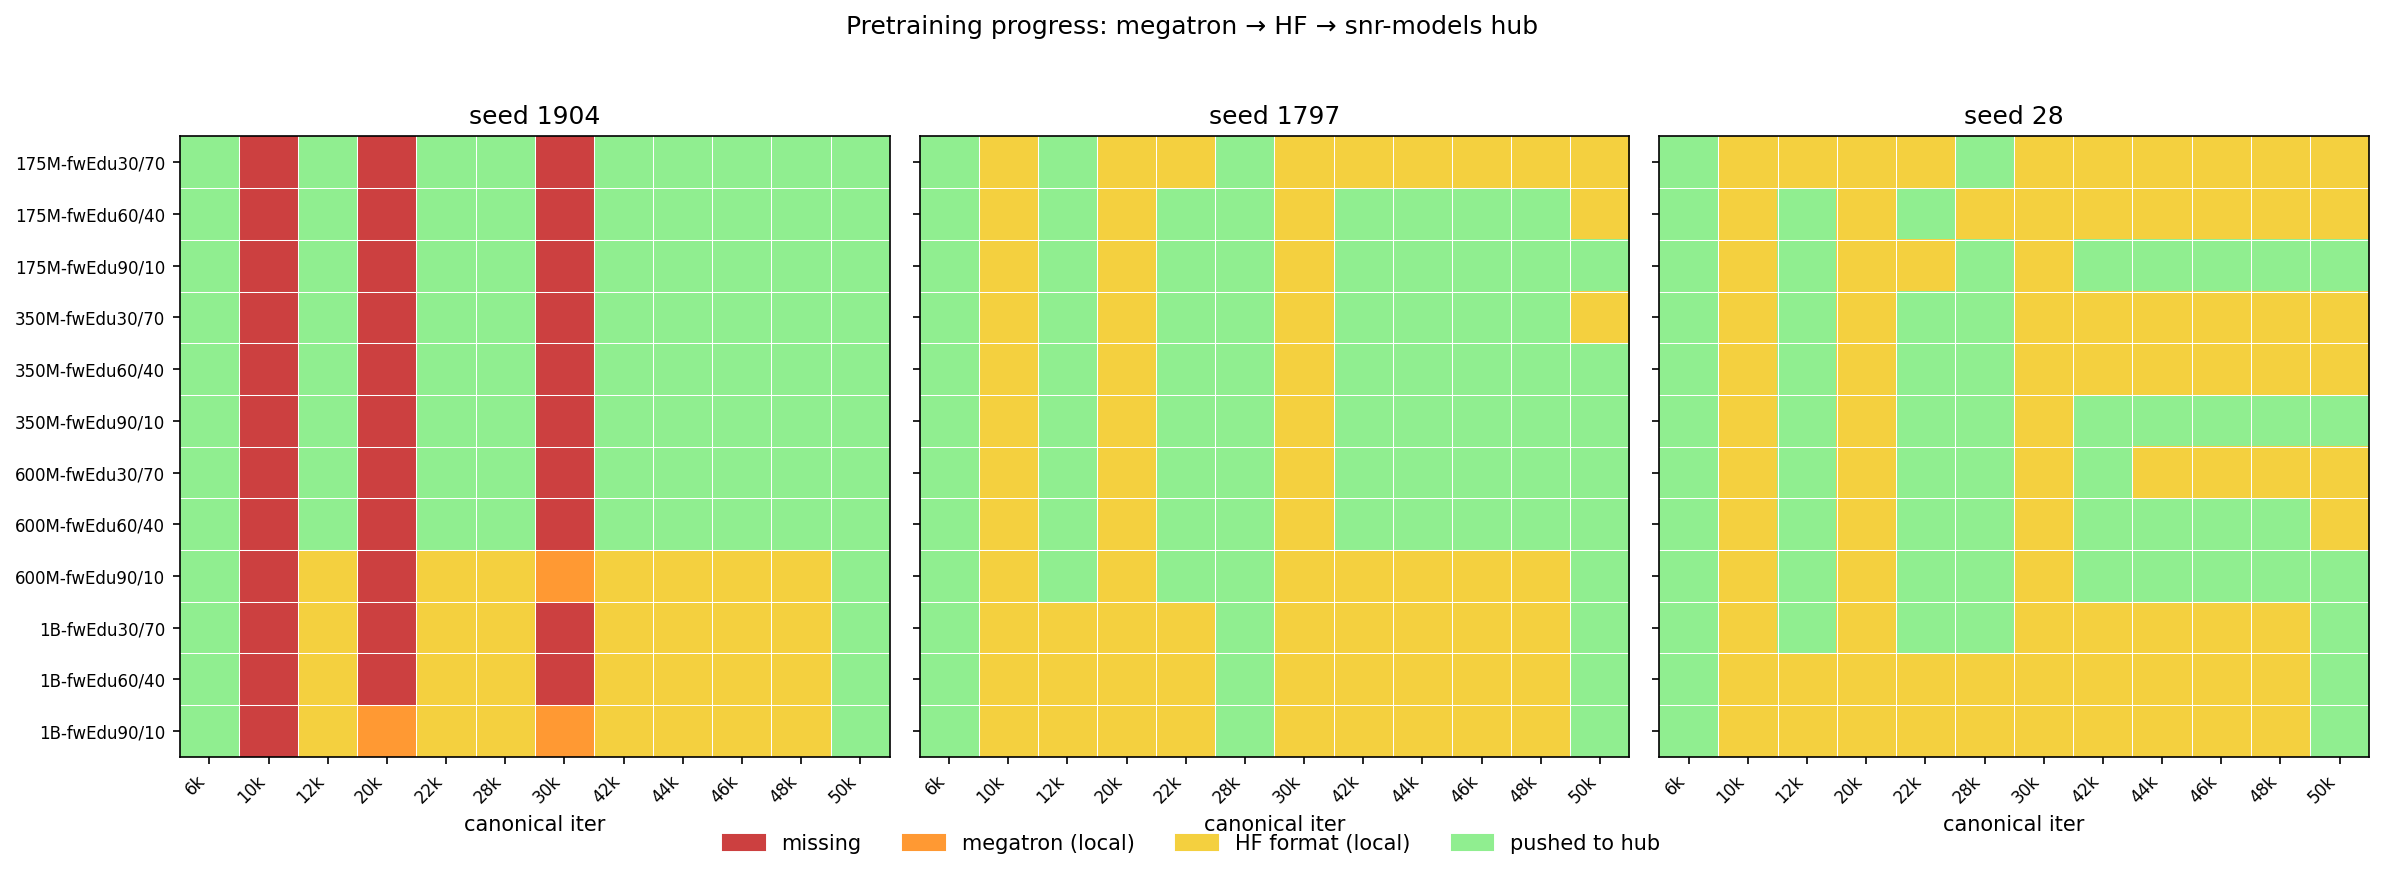
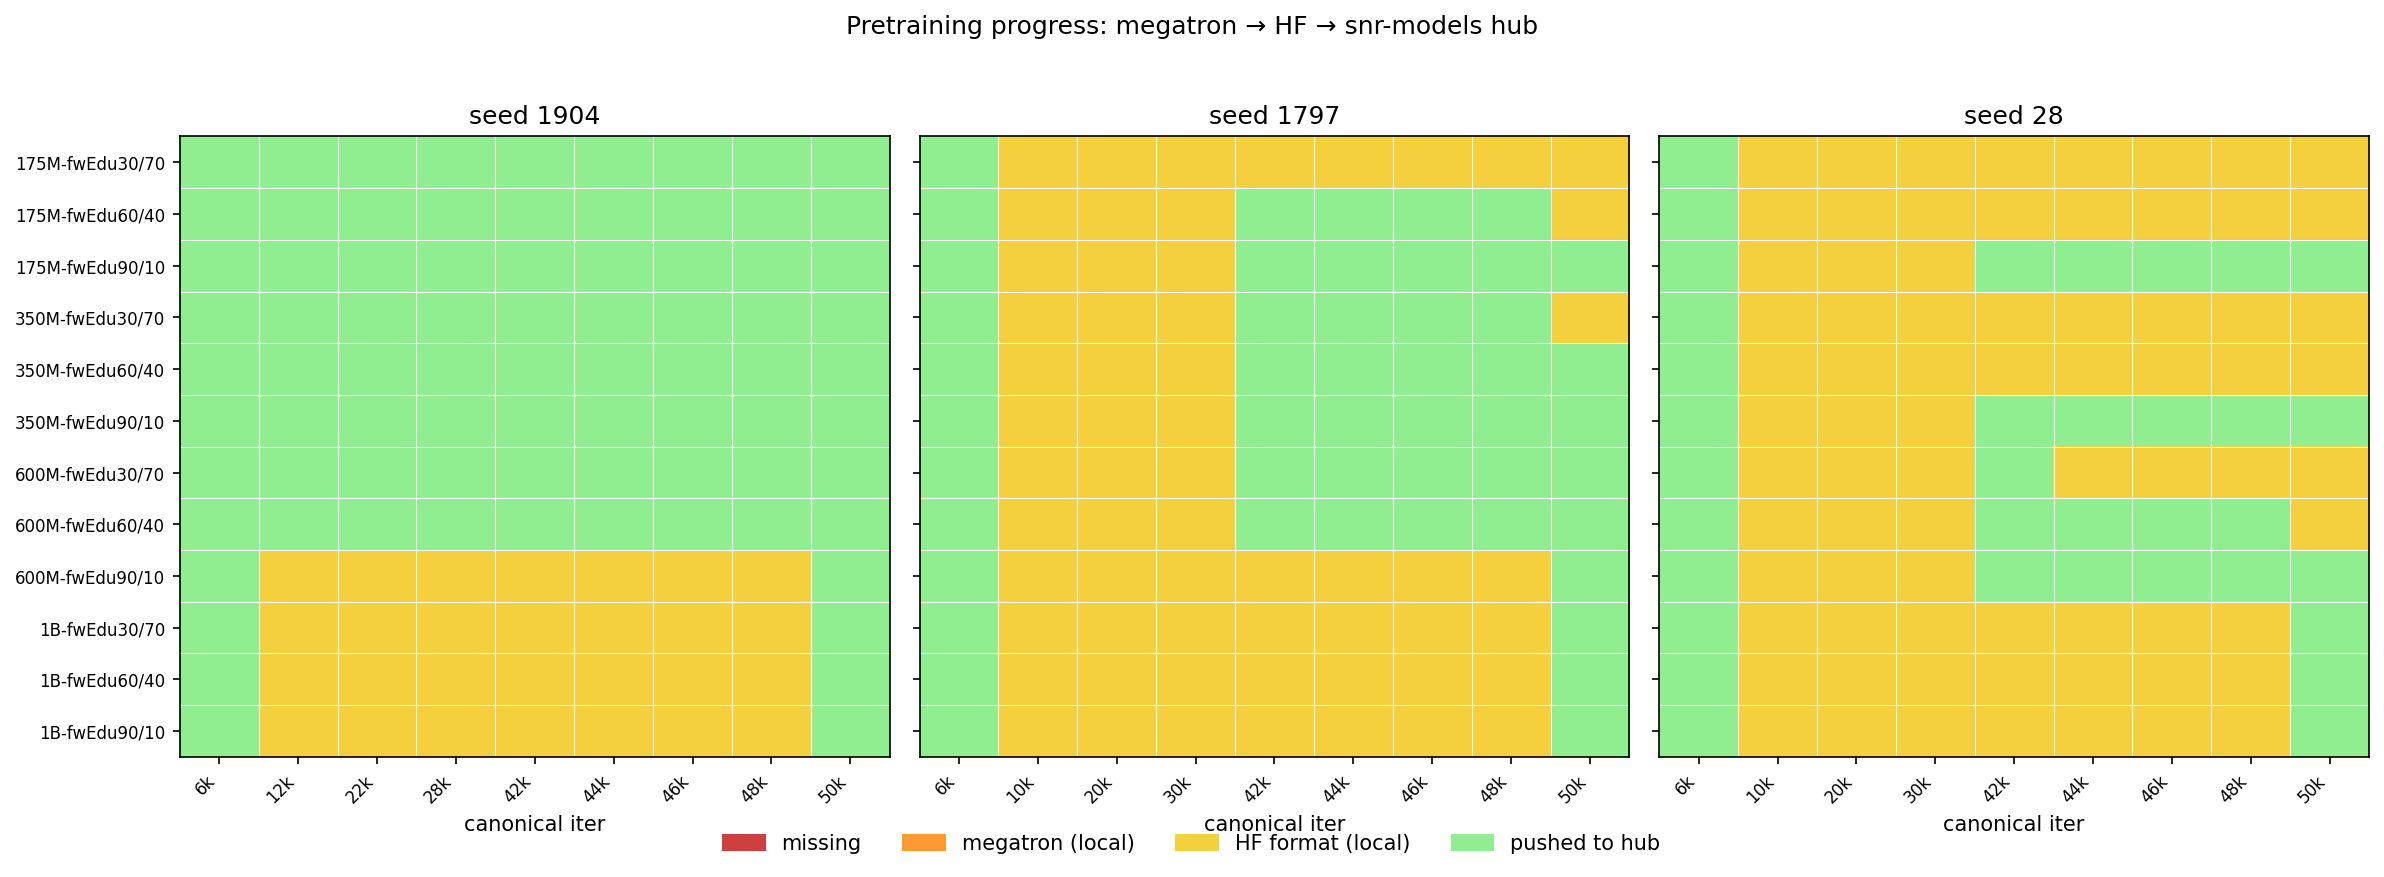
target every 2000-step iter in pretrain progress actions; fix per-seed plot axes
- drop the progress-bar dashboard from pretrain_progress.py — actions is
  now the only output mode, one tab-separated line per cell. removes the
  --actions and --all flags
- the action set targets every 2000-step iter, so 'done' means every
  iter_2000..iter_50000 is valid on disk (not just the 9 canonical ones).
  the prior canonical-only logic missed gaps like seed28 175M-fwEdu90
  missing iter 24000 with every other iter valid
- per-seed canonical iter axes in both plots: each panel now uses its own
  seed's iters (seed1904 → 12k/22k/28k, seeds 28/1797 → 10k/20k/30k)
  instead of the union, both in the canonical-stage heatmap columns and
  the all-iters plot's bold-canonical labels
- drop --actions from launch_resumes.sh's pretrain_progress invocation

diff --git a/src/pretrain/pretrain_progress.py b/src/pretrain/pretrain_progress.py
@@ -1,19 +1,23 @@
 #!/usr/bin/env python3
-"""Pretraining progress dashboard.
+"""Pretraining progress: per-cell machine-readable actions + plots.
 
-Scans the Megatron checkpoints tree and prints, for each model, the latest
-iteration saved, the number of iter_* dirs on disk, and a progress bar
-toward --target (default 50000). The companion to scripts/snr_progress.py
-(which tracks evaluation progress).
+Default: prints one tab-separated action line per canonical cell, targeting
+every 2000-step iter (so "done" means every `iter_NNNNNNN` from 2000..50000
+is valid on disk). Output format:
+
+    <model>\tdone
+    <model>\tfresh\t<target>
+    <model>\tcorrupt\t<n_iters>
+    <model>\tresume\t<load_iter>\t<target>
+
+Consumed by `launch_resumes.sh`.
 
 Examples:
     python3.11 pretrain_progress.py
-    python3.11 pretrain_progress.py --filter seed1904
-    python3.11 pretrain_progress.py --all                # include non-canonical exp dirs
+    python3.11 pretrain_progress.py --filter seed1797
     python3.11 pretrain_progress.py --target 50000
     python3.11 pretrain_progress.py --plot progress.png   # writes progress.png + progress_all.png
     python3.11 pretrain_progress.py --plot progress.png --no-hub  # skip Hub query
-    python3.11 pretrain_progress.py --actions             # machine-readable per-model action
 """
 from __future__ import annotations
 
@@ -31,7 +35,6 @@ HF_STAGING_ROOT = Path("/iopsstor/scratch/cscs/mariagrandury/snr-hf-checkpoints"
 # three accounts: snr-models-1904, snr-models-1797, snr-models-28).
 def hf_org_for_seed(seed: int) -> str:
     return f"snr-models-{seed}"
-CANONICAL_RE = re.compile(r"^apertus-(175M|350M|600M|1B)-fwEdu\d+-fw2\d+-seed\d+$")
 ITER_RE = re.compile(r"^iter_(\d+)$")
 
 # Per-seed iter policy (single source of truth for the whole pipeline:
@@ -43,8 +46,6 @@ ITERS_OTHER    = [6000, 10000, 20000, 30000, 42000, 44000, 46000, 48000, 50000]
 def canonical_iters_for_seed(seed: int) -> list[int]:
     return ITERS_SEED1904 if seed == 1904 else ITERS_OTHER
 
-# Union of all per-seed iters — used by the canonical-stage heatmap (columns).
-CANONICAL_ITERS = sorted(set(ITERS_SEED1904) | set(ITERS_OTHER))
 # All training save points: Megatron writes every 2000 iters (CHECKPOINT_STEPS).
 CHECKPOINT_INTERVAL = 2000
 TARGET_ITER = 50000
@@ -52,12 +53,6 @@ ALL_ITERS = list(range(CHECKPOINT_INTERVAL, TARGET_ITER + 1, CHECKPOINT_INTERVAL
 SIZES = ["175M", "350M", "600M", "1B"]
 MIXES = [(30, 70), (60, 40), (90, 10)]
 SEEDS = [1904, 1797, 28]
-
-
-def _seed_of(cell_name: str) -> int:
-    """Extract the seed int from a canonical cell name."""
-    m = re.search(r"-seed(\d+)$", cell_name)
-    return int(m.group(1)) if m else 0
 
 
 def is_valid_iter_dir(iter_dir: Path) -> bool:
@@ -110,13 +105,6 @@ def model_progress(
     max_iter = max(iters) if iters else None
     max_valid = max(valid_iters) if valid_iters else None
     return marker, len(iters), max_iter, max_valid, valid_iters
-
-
-def render_bar(done: int, total: int, width: int = 25) -> str:
-    if total <= 0:
-        return "[" + " " * width + "]"
-    filled = max(0, min(width, int(round(width * done / total))))
-    return "[" + "#" * filled + "-" * (width - filled) + "]"
 
 
 # ---------------------------------------------------------------------------
@@ -176,14 +164,15 @@ def _hub_branches_for_cell(api, cell: str, seed: int,
 
 
 def _build_status_matrix(seed: int, hub_branches: dict[str, set[str]],
+                        iters: list[int],
                         ckpt_root: Path = CKPT_ROOT) -> "list[list[int]]":
-    """Return a 12 × len(CANONICAL_ITERS) matrix of status codes for one seed."""
+    """Return a 12 × len(iters) matrix of status codes for one seed."""
     matrix: list[list[int]] = []
     for size in SIZES:
         for fw_edu, fw2 in MIXES:
             cell = f"apertus-{size}-fwEdu{fw_edu}-fw2{fw2}-seed{seed}"
             row: list[int] = []
-            for step in CANONICAL_ITERS:
+            for step in iters:
                 meg_ok = is_valid_iter_dir(
                     ckpt_root / cell / "checkpoints" / f"iter_{step:07d}"
                 )
@@ -247,7 +236,6 @@ def make_plot(out_path: Path, query_hub: bool = True,
     norm = BoundaryNorm([-0.5, 0.5, 1.5, 2.5, 3.5], cmap.N)
 
     row_labels = [f"{s}-fwEdu{e}/{w}" for s in SIZES for e, w in MIXES]
-    col_labels = [f"{i // 1000}k" for i in CANONICAL_ITERS]
 
     fig, axes = plt.subplots(
         1, len(SEEDS),
@@ -258,16 +246,18 @@ def make_plot(out_path: Path, query_hub: bool = True,
         axes = [axes]
 
     for ax, seed in zip(axes, SEEDS):
-        matrix = _build_status_matrix(seed, hub_branches, ckpt_root)
+        seed_iters = canonical_iters_for_seed(seed)
+        col_labels = [f"{i // 1000}k" for i in seed_iters]
+        matrix = _build_status_matrix(seed, hub_branches, seed_iters, ckpt_root)
         ax.imshow(matrix, cmap=cmap, norm=norm, aspect="auto")
-        ax.set_xticks(range(len(CANONICAL_ITERS)))
+        ax.set_xticks(range(len(seed_iters)))
         ax.set_xticklabels(col_labels, rotation=45, ha="right", fontsize=8)
         ax.set_yticks(range(len(row_labels)))
         ax.set_yticklabels(row_labels, fontsize=8)
         ax.set_title(f"seed {seed}")
         ax.set_xlabel("canonical iter")
         # Light grid between cells.
-        ax.set_xticks([x - 0.5 for x in range(1, len(CANONICAL_ITERS))], minor=True)
+        ax.set_xticks([x - 0.5 for x in range(1, len(seed_iters))], minor=True)
         ax.set_yticks([y - 0.5 for y in range(1, len(row_labels))], minor=True)
         ax.grid(which="minor", color="white", linewidth=0.5)
         ax.tick_params(which="minor", length=0)
@@ -300,7 +290,6 @@ def _make_all_iters_plot(out_path: Path, ckpt_root: Path = CKPT_ROOT) -> None:
     norm = BoundaryNorm([-0.5, 0.5, 1.5], cmap.N)
 
     row_labels = [f"{s}-fwEdu{e}/{w}" for s in SIZES for e, w in MIXES]
-    canonical_set = set(CANONICAL_ITERS)
     col_labels = [f"{i // 1000}k" for i in ALL_ITERS]
 
     fig, axes = plt.subplots(
@@ -312,11 +301,12 @@ def _make_all_iters_plot(out_path: Path, ckpt_root: Path = CKPT_ROOT) -> None:
         axes = [axes]
 
     for ax, seed in zip(axes, SEEDS):
+        canonical_set = set(canonical_iters_for_seed(seed))
         matrix = _build_all_iters_matrix(seed, ckpt_root)
         ax.imshow(matrix, cmap=cmap, norm=norm, aspect="auto")
         ax.set_xticks(range(len(ALL_ITERS)))
         ax.set_xticklabels(col_labels, rotation=90, fontsize=6)
-        # Bold + slightly larger font for canonical iter labels so they pop.
+        # Bold + slightly larger font for this seed's canonical iter labels.
         for lbl, it in zip(ax.get_xticklabels(), ALL_ITERS):
             if it in canonical_set:
                 lbl.set_fontweight("bold")
@@ -344,7 +334,7 @@ def _make_all_iters_plot(out_path: Path, ckpt_root: Path = CKPT_ROOT) -> None:
 
 
 # ---------------------------------------------------------------------------
-# Machine-readable per-model action mode (consumed by launch_resumes.sh).
+# Machine-readable per-model action output (consumed by launch_resumes.sh).
 #
 # Output (one line per model, tab-separated):
 #   <model>\tdone
@@ -352,17 +342,21 @@ def _make_all_iters_plot(out_path: Path, ckpt_root: Path = CKPT_ROOT) -> None:
 #   <model>\tcorrupt\t<n_iters>               # iter dirs exist but none valid → skip + warn
 #   <model>\tresume\t<load_iter>\t<target>    # resume from <load_iter>, train until <target>
 #
+# Target set: EVERY 2000-step iter ≤ --target (the full set Megatron writes
+# during training). "done" therefore means every iter_NNNNNNN from
+# CHECKPOINT_INTERVAL..target is a valid checkpoint on disk.
+#
 # We never emit a "wipe" action — the launcher must not auto-delete checkpoint
 # directories. A corrupt model is reported and left alone for manual review.
 #
 # Decision logic per model:
-#   • All canonical iters ≤ target valid    → done
+#   • All target iters valid                → done
 #   • No iter dirs on disk                  → fresh
 #   • Iter dirs exist but no valid ones     → corrupt (skip)
-#   • Any canonical iter > max_existing_canonical missing (end-gap)
+#   • Any target iter > max_existing missing (end-gap)
 #       → resume from max_valid until <target>
-#   • Otherwise (mid-gap only): earliest missing canonical
-#       → resume from max valid iter strictly less than that canonical, until canonical
+#   • Otherwise (mid-gap only): earliest missing target iter
+#       → resume from max valid iter strictly less than that, until that iter
 #     If a model has both end- and mid-gaps, end wins (per spec).
 #     Re-running picks up the next mid-gap after the previous job finishes.
 # ---------------------------------------------------------------------------
@@ -383,28 +377,25 @@ def emit_actions(target: int, root: Path = CKPT_ROOT,
                  filter_substr: str | None = None) -> None:
     """Print per-model action lines for the resume launcher (see above).
 
-    The canonical iter set is picked per-cell from `canonical_iters_for_seed`:
-    seed1904 uses ITERS_SEED1904; seed28 / seed1797 use ITERS_OTHER. This
-    matches the rest of the pipeline (eval CSV, conversion plan files).
+    Targets every 2000-step iter ≤ target (ALL_ITERS), so "done" means every
+    iter_NNNNNNN in that range is a valid checkpoint on disk.
     """
+    target_iters = [i for i in ALL_ITERS if i <= target]
     for d in _canonical_models(root):
         if filter_substr and filter_substr not in d.name:
             continue
         marker, n_iters, max_iter, max_valid, valid_iters = model_progress(d)
 
-        canonical_target_iters = [
-            c for c in canonical_iters_for_seed(_seed_of(d.name)) if c <= target
-        ]
-        existing_canonical = [c for c in canonical_target_iters if c in valid_iters]
-        missing_canonical = [c for c in canonical_target_iters if c not in valid_iters]
+        existing = [c for c in target_iters if c in valid_iters]
+        missing = [c for c in target_iters if c not in valid_iters]
 
-        if not missing_canonical:
+        if not missing:
             print(f"{d.name}\tdone")
             continue
 
-        max_existing = max(existing_canonical) if existing_canonical else 0
-        end_missing = [c for c in missing_canonical if c > max_existing]
-        mid_missing = [c for c in missing_canonical if c < max_existing]
+        max_existing = max(existing) if existing else 0
+        end_missing = [c for c in missing if c > max_existing]
+        mid_missing = [c for c in missing if c < max_existing]
 
         if end_missing:
             # Drive to the final target. Spec: end wins over mid.
@@ -417,12 +408,12 @@ def emit_actions(target: int, root: Path = CKPT_ROOT,
             else:
                 print(f"{d.name}\tresume\t{max_valid}\t{target}")
         else:
-            # Mid-only: target the earliest missing canonical.
+            # Mid-only: target the earliest missing iter.
             target_iter = mid_missing[0]
             valid_before = [v for v in valid_iters if v < target_iter]
             load_iter = max(valid_before) if valid_before else 0
             if load_iter == 0:
-                # Edge case: no valid iter strictly before this mid canonical
+                # Edge case: no valid iter strictly before this mid target
                 # (e.g. only later iters are valid). Skip and let the user look.
                 if n_iters > 0:
                     print(f"{d.name}\tcorrupt\t{n_iters}")
@@ -442,13 +433,8 @@ def main() -> None:
         help=f"Megatron run root (default: {CKPT_ROOT})",
     )
     p.add_argument("--filter", default=None, help="Substring filter on model dir name.")
-    p.add_argument(
-        "--all",
-        action="store_true",
-        help="Include non-canonical experiment directories (default: only "
-             "apertus-{175M,350M,600M,1B}-fwEdu*-fw2*-seed* dirs).",
-    )
-    p.add_argument("--target", type=int, default=TARGET_ITER, help="Target iteration for progress bar.")
+    p.add_argument("--target", type=int, default=TARGET_ITER,
+                   help="Target iteration (default: 50000).")
     p.add_argument(
         "--plot",
         metavar="PATH",
@@ -462,74 +448,13 @@ def main() -> None:
         help="With --plot, skip the HF Hub branch lookup (treat all branches "
              "as missing). Useful when the Hub API is rate-limited.",
     )
-    p.add_argument(
-        "--actions",
-        action="store_true",
-        help="Print one machine-readable line per canonical model: "
-             "<model>\\tdone | fresh\\t<target> | corrupt\\t<n_iters> | "
-             "resume\\t<load_iter>\\t<target>. Consumed by launch_resumes.sh.",
-    )
     args = p.parse_args()
 
     if args.plot:
         make_plot(Path(args.plot), query_hub=not args.no_hub, ckpt_root=Path(args.root))
         return
 
-    if args.actions:
-        emit_actions(args.target, root=Path(args.root), filter_substr=args.filter)
-        return
-
-    root = Path(args.root)
-    if not root.is_dir():
-        raise SystemExit(f"root not found: {root}")
-
-    models = sorted(d for d in root.iterdir() if d.is_dir())
-    if not args.all:
-        models = [d for d in models if CANONICAL_RE.match(d.name)]
-    if args.filter:
-        models = [d for d in models if args.filter in d.name]
-
-    if not models:
-        print("No matching model directories.")
-        return
-
-    name_w = max(len(d.name) for d in models)
-    done_count = 0
-    corrupt_count = 0
-    for d in models:
-        marker, n_iters, max_iter, max_valid, _ = model_progress(d)
-        latest = marker if marker is not None else max_iter
-        # corrupt: marker (or fallback max_iter) points at an iter that is
-        # not actually loadable. Either no valid iter exists at all, or the
-        # latest valid iter is older than what marker claims.
-        corrupt = (latest is not None) and (
-            max_valid is None or max_valid < latest
-        )
-        bar = render_bar((max_valid if corrupt else latest) or 0, args.target)
-        latest_s = f"{latest}" if latest is not None else "-"
-        if latest is not None and latest >= args.target and not corrupt:
-            done_count += 1
-            tag = "[done]"
-        elif latest is None:
-            tag = "[no_ckpts]"
-        elif corrupt:
-            corrupt_count += 1
-            valid_s = f"{max_valid}" if max_valid is not None else "none"
-            tag = f"[corrupt] (latest valid: {valid_s})"
-        else:
-            tag = "[in_progress]"
-        print(
-            f"  {bar} {latest_s:>6} / {args.target}   "
-            f"saved={n_iters:>3}  {d.name:<{name_w}}  {tag}"
-        )
-
-    msg = (
-        f"\nSummary: {done_count}/{len(models)} models reached iter {args.target} "
-        f"({100 * done_count / len(models):.0f}%)"
-    )
-    if corrupt_count:
-        msg += f" — {corrupt_count} corrupt"
-    print(msg)
+    emit_actions(args.target, root=Path(args.root), filter_substr=args.filter)
 
 
 if __name__ == "__main__":
